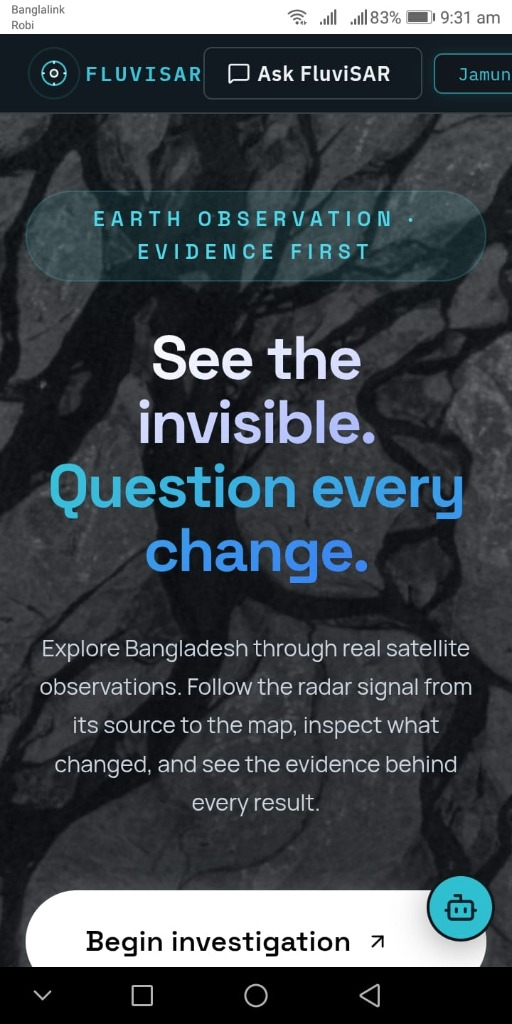
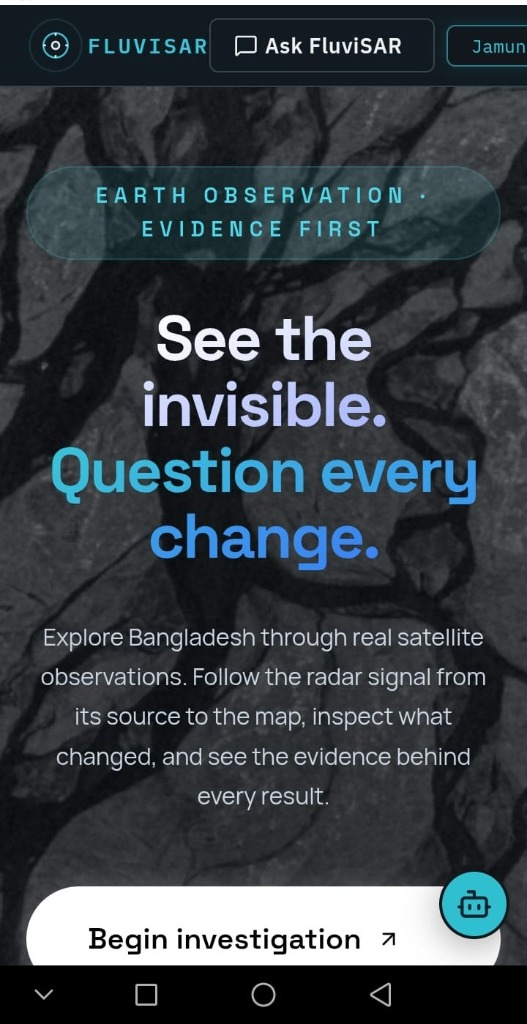
update readme file

diff --git a/README.md b/README.md
@@ -10,7 +10,7 @@
 > | Operational Parameter | Specification & Gateway Link |
 > | :--- | :--- |
 > | 🏆 **Team Identification** | **`Quintessence Minus Infinity`** |
-> | 📱 **In-Situ Field Client (TRACE)** | **[Launch TRACE Field Application ↗](https://nana-space-apps-2026-trace.vercel.app/)** (`https://nana-space-apps-2026-trace.vercel.app/`) |
+> | 📱 **In-Situ Field Client (TRACE)** | **[Launch TRACE Field Application ↗](https://nasa-space-apps-2026-trace.vercel.app/)** (`https://nasa-space-apps-2026-trace.vercel.app/`) |
 > | 🛰 **Satellite Observatory (FluviSAR)** | **[Launch FluviSAR Web Platform ↗](https://nasa-web-240sec-chi.vercel.app/)** (`https://nasa-web-240sec-chi.vercel.app/`) |
 > | 🛰 **NASA Challenge Track** | **[Dancing with the SARs](https://www.spaceappschallenge.org/2026/challenges/dancing-with-the-sars/?tab=details)** — Synthetic Aperture Radar Earth Observation |
 > | 📦 **Primary Artifacts** | **TRACE** *(In-Situ Radar Ground-Truth & Calibration)* + **FluviSAR** *(Satellite Observatory & Evidence Platform)* |
@@ -38,9 +38,9 @@
 
 | 🛰 **FluviSAR — Satellite Observatory & Evidence Web** | 📱 **TRACE — In-Situ Ground-Truth Field Client** |
 | :---: | :---: |
-| <a href="https://nasa-web-240sec-chi.vercel.app/"><img src="public/screenshots/fluvisar-mobile.jpg" width="310" alt="FluviSAR Satellite Observatory Mobile Interface" style="border-radius: 14px; box-shadow: 0 10px 25px rgba(0,0,0,0.4);" /></a> | <a href="https://nana-space-apps-2026-trace.vercel.app/"><img src="public/screenshots/trace-mobile.jpg" width="310" alt="TRACE Ground-Truth Field Client Mobile Interface" style="border-radius: 14px; box-shadow: 0 10px 25px rgba(0,0,0,0.4);" /></a> |
+| <a href="https://nasa-web-240sec-chi.vercel.app/"><img src="public/screenshots/fluvisar-mobile.jpg" width="310" alt="FluviSAR Satellite Observatory Mobile Interface" style="border-radius: 14px; box-shadow: 0 10px 25px rgba(0,0,0,0.4);" /></a> | <a href="https://nasa-space-apps-2026-trace.vercel.app/"><img src="public/screenshots/trace-mobile.jpg" width="310" alt="TRACE Ground-Truth Field Client Mobile Interface" style="border-radius: 14px; box-shadow: 0 10px 25px rgba(0,0,0,0.4);" /></a> |
 | **"See the invisible. Question every change."**<br><sub>Spaceborne SAR & Optical Observatory · Water-Transition Screening</sub> | **"Go where the evidence is."**<br><sub>Tactical Mobile PWA · 4-Valued Epistemic Truth ($L_4$) · GPS Ground Proof</sub> |
-| [🚀 **Launch FluviSAR Web ↗**](https://nasa-web-240sec-chi.vercel.app/) | [🚀 **Launch TRACE Field App ↗**](https://nana-space-apps-2026-trace.vercel.app/) |
+| [🚀 **Launch FluviSAR Web ↗**](https://nasa-web-240sec-chi.vercel.app/) | [🚀 **Launch TRACE Field App ↗**](https://nasa-space-apps-2026-trace.vercel.app/) |
 
 </div>
 
@@ -276,9 +276,9 @@ npm run dev
 | **OpenAPI Specification** | [http://localhost:8000/api/v1/openapi.json](http://localhost:8000/api/v1/openapi.json) | Raw OpenAPI 3.0.3 JSON Spec |
 | **API Health Endpoint** | [http://localhost:8000/api/v1/health](http://localhost:8000/api/v1/health) | Process Uptime & System Health |
 | **NASA Service Status** | [http://localhost:8000/api/v1/nasa/status](http://localhost:8000/api/v1/nasa/status) | Real-time connectivity to CMR, ASF DAAC, GIBS |
-| **Live Production App (TRACE)** | [https://nana-space-apps-2026-trace.vercel.app/](https://nana-space-apps-2026-trace.vercel.app/) | Vercel Edge & Cloud Deployment |
+| **Live Production App (TRACE)** | [https://nasa-space-apps-2026-trace.vercel.app/](https://nasa-space-apps-2026-trace.vercel.app/) | Vercel Edge & Cloud Deployment |
 | **Live Satellite Observatory (FluviSAR)** | [https://nasa-web-240sec-chi.vercel.app/](https://nasa-web-240sec-chi.vercel.app/) | Dual-Region Radar Observatory Web Platform |
-| **Live Production Swagger** | [https://nana-space-apps-2026-trace.vercel.app/docs](https://nana-space-apps-2026-trace.vercel.app/docs) | Live Interactive Swagger / API Docs |
+| **Live Production Swagger** | [https://nasa-space-apps-2026-trace.vercel.app/docs](https://nasa-space-apps-2026-trace.vercel.app/docs) | Live Interactive Swagger / API Docs |
 
 ---
 
@@ -791,7 +791,7 @@ Unlike typical full-stack architectures where the backend server uses a privileg
 ## 15. Complete REST API v1 Reference
 
 > 📚 **Interactive Swagger UI Documentation:**
-> Visit **[`/docs`](http://localhost:8000/docs)** (or **[`https://nana-space-apps-2026-trace.vercel.app/docs`](https://nana-space-apps-2026-trace.vercel.app/docs)** on production) to test endpoints live with Swagger UI.
+> Visit **[`/docs`](http://localhost:8000/docs)** (or **[`https://nasa-space-apps-2026-trace.vercel.app/docs`](https://nasa-space-apps-2026-trace.vercel.app/docs)** on production) to test endpoints live with Swagger UI.
 > Raw OpenAPI 3.0.3 JSON specification is served at **[`/api/v1/openapi.json`](http://localhost:8000/api/v1/openapi.json)**.
 
 All endpoints (except `/health`, `/nasa/status`, and `/docs`) require:
@@ -1075,7 +1075,7 @@ TRACE is released under the **MIT Open Science License**.
 Developed with pride by team **Quintessence Minus Infinity** for the **NASA International Space Apps Challenge 2026**:
 - **Team Name:** `Quintessence Minus Infinity`
 - **Challenge Track:** [Dancing with the SARs](https://www.spaceappschallenge.org/2026/challenges/dancing-with-the-sars/?tab=details)
-- **Live In-Situ Field Application (TRACE):** [https://nana-space-apps-2026-trace.vercel.app/](https://nana-space-apps-2026-trace.vercel.app/)
+- **Live In-Situ Field Application (TRACE):** [https://nasa-space-apps-2026-trace.vercel.app/](https://nasa-space-apps-2026-trace.vercel.app/)
 - **Live Satellite Observatory (FluviSAR):** [https://nasa-web-240sec-chi.vercel.app/](https://nasa-web-240sec-chi.vercel.app/)
 
 ---
